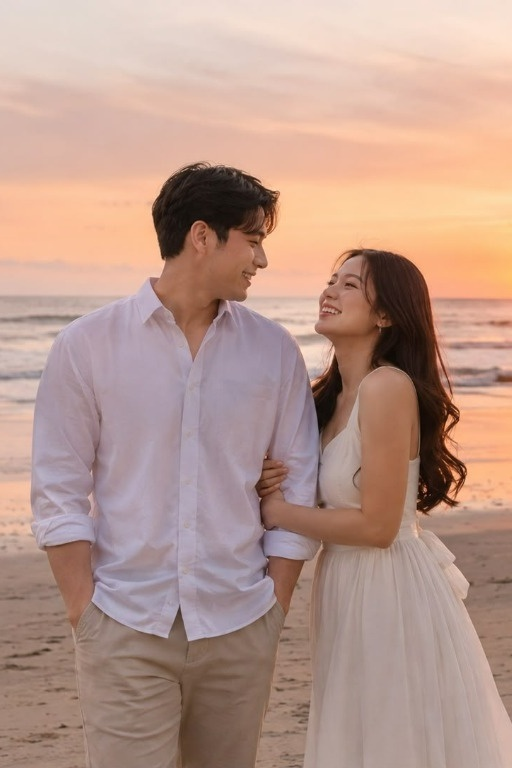
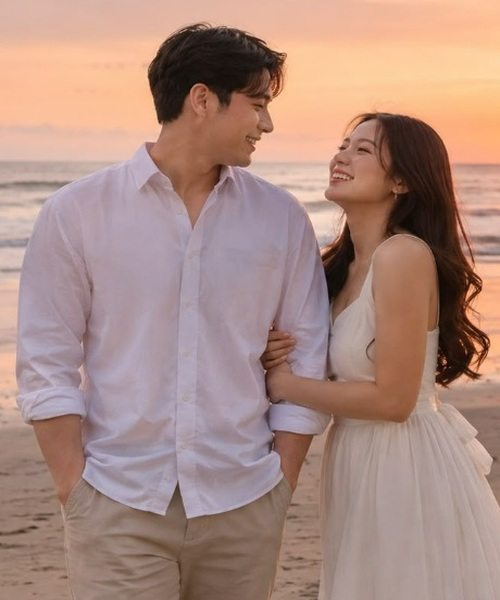
feat: replace all photos with new romantic sunset beach photo assets and cache busting

diff --git a/index.html b/index.html
@@ -83,7 +83,7 @@ if (window.location.search.includes('state=opening')) {
 <section class="reveal-moment" id="reveal-photo" aria-label="Foto kenangan interaktif">
   <div class="reveal-frame-container">
     <div class="reveal-oval-viewport" id="reveal-viewport">
-      <img class="reveal-photo" src="assets/photo-candlelight.jpg" alt="Foto kenangan Ariana &amp; Johan" loading="lazy">
+      <img class="reveal-photo" src="assets/photo-beach-reveal.jpg?v=beach2028" alt="Foto kenangan Ariana &amp; Johan" loading="lazy">
       <canvas id="scratch-canvas" role="button" tabindex="0" aria-label="Reveal photo of Ariana &amp; Johan" class="reveal-canvas" style="touch-action: none; opacity: 1; pointer-events: auto;"></canvas>
     </div>
     <img class="reveal-frame-overlay" src="assets/pearl-reveal-frame.webp" alt="" aria-hidden="true">
@@ -102,7 +102,7 @@ if (window.location.search.includes('state=opening')) {
   <div class="couple-knot-ornament" aria-hidden="true"><img src="assets/pearl-butterfly.webp" alt=""></div>
   <div class="section-heading reveal"><p class="eyebrow">THE BRIDE & THE GROOM</p><h2 class="script">Dua hati, satu cerita</h2></div>
   <div class="couple-portrait reveal">
-    <img class="portrait" src="assets/photo-2.jpg" alt="Foto pasangan contoh dari website referensi" loading="lazy">
+    <img class="portrait" src="assets/photo-beach-couple.jpg?v=beach2028" alt="Foto pernikahan Ariana &amp; Johan" loading="lazy">
     <img class="portrait-flower flower-sway" src="assets/pearl-rose.webp" alt="" loading="lazy">
   </div>
   <div class="couple-names reveal">
@@ -134,7 +134,7 @@ if (window.location.search.includes('state=opening')) {
       </div>
     </div>
     <img class="keepsake-fan keepsake-item" src="assets/pearl-bouquet.webp" alt="" loading="lazy">
-    <div class="polaroid polaroid-one keepsake-item"><img src="assets/photo-1.jpg" alt="Potret kenangan" loading="lazy"><span>our forever</span></div>
+    <div class="polaroid polaroid-one keepsake-item"><img src="assets/photo-beach-polaroid.jpg?v=beach2028" alt="Potret kenangan" loading="lazy"><span>our forever</span></div>
     <img class="keepsake-bouquet flower-sway keepsake-item" src="assets/pearl-rose.webp" alt="" loading="lazy">
   </div>
 </section>
@@ -170,9 +170,9 @@ if (window.location.search.includes('state=opening')) {
   <img class="gallery-snail-pearl ornament flower-sway" src="assets/pearl-snail.webp" alt="" loading="lazy">
   <div class="section-heading reveal"><p class="eyebrow">FLEETING MOMENTS, ENDLESS LOVE</p><h2 class="script">Captured in time</h2><p>Beberapa detik yang ingin kami simpan selamanya.</p></div>
   <div class="gallery-layout">
-    <button class="photo-button gallery-first reveal" data-photo="assets/photo-2.jpg" aria-label="Perbesar foto kenangan pertama"><img class="gallery-photo" src="assets/photo-2.jpg" alt="Pasangan di dekat jendela" loading="lazy"><img class="gallery-frame" src="assets/clam-pearl-frame.webp" alt="" loading="lazy"></button>
+    <button class="photo-button gallery-first reveal" data-photo="assets/photo-beach-full.jpg?v=beach2028" aria-label="Perbesar foto kenangan pertama"><img class="gallery-photo" src="assets/photo-beach-gallery1.jpg?v=beach2028" alt="Ariana &amp; Johan saat matahari terbenam di pantai" loading="lazy"><img class="gallery-frame" src="assets/clam-pearl-frame.webp" alt="" loading="lazy"></button>
     <p class="gallery-caption">forever, and a day</p>
-    <button class="photo-button gallery-second reveal" data-photo="assets/photo-1.jpg" aria-label="Perbesar foto kenangan kedua"><img class="gallery-photo" src="assets/photo-1.jpg" alt="Pasangan dengan buket bunga" loading="lazy"><img class="gallery-frame" src="assets/ribbon-frame.webp" alt="" loading="lazy"></button>
+    <button class="photo-button gallery-second reveal" data-photo="assets/photo-beach-full.jpg?v=beach2028" aria-label="Perbesar foto kenangan kedua"><img class="gallery-photo" src="assets/photo-beach-gallery2.jpg?v=beach2028" alt="Ariana &amp; Johan tersenyum bahagia" loading="lazy"><img class="gallery-frame" src="assets/ribbon-frame.webp" alt="" loading="lazy"></button>
   </div>
 </section>
 
@@ -239,7 +239,7 @@ if (window.location.search.includes('state=opening')) {
 <dialog id="photo-dialog" class="photo-dialog"><button id="close-photo" aria-label="Tutup foto">×</button><img id="large-photo" alt="Potret kenangan pasangan"><p>Captured in time · Ariana & Johan</p></dialog>
 <div class="toast" id="toast" role="status"></div>
 <noscript><style>.opening{display:none}body{overflow:auto}main{margin-left:0}main[inert]{pointer-events:auto}.reveal{opacity:1}.desktop-art{display:none}</style><p>Aktifkan JavaScript untuk membuka undangan dan menggunakan formulir.</p></noscript>
-<script src="app.js?v=scratch-v1"></script>
+<script src="app.js?v=beach2028"></script>
 </body></html>
 
 
